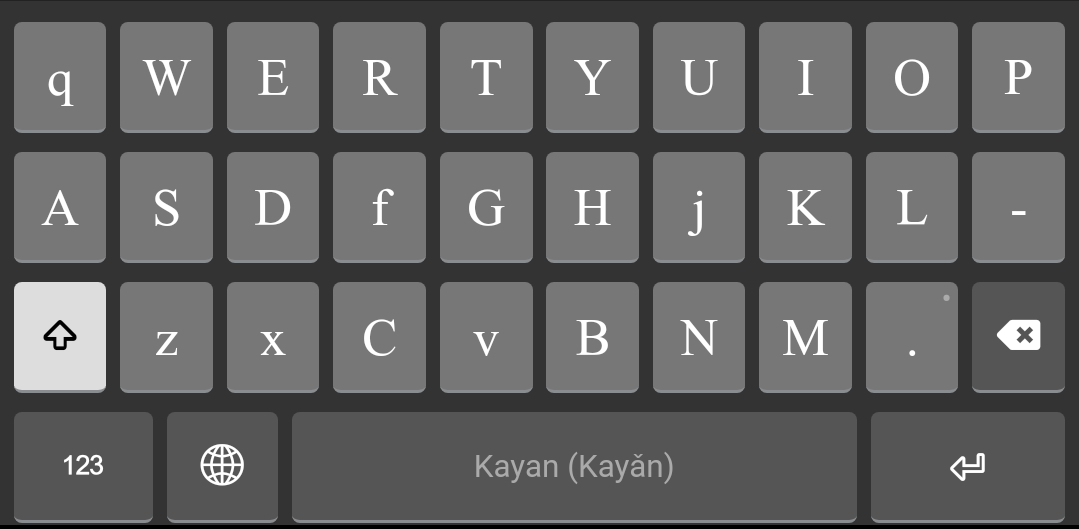
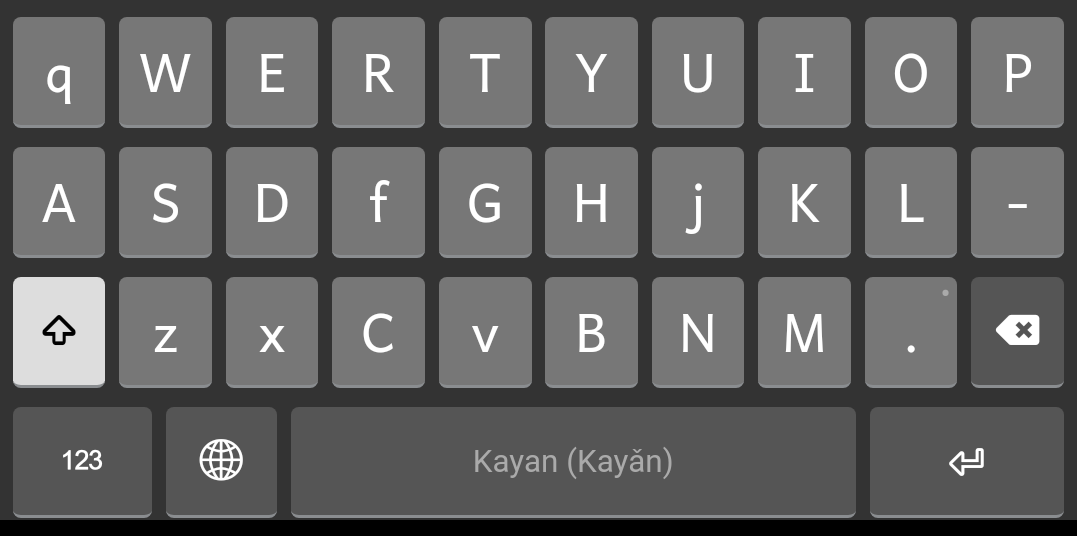
change font and minor update to touch

diff --git a/release/k/kayan/source/welcome/welcome.htm b/release/k/kayan/source/welcome/welcome.htm
@@ -25,28 +25,33 @@
         </ol>
 		  </p>
       <h1>Kayǎn Keyboard</h1>
-	  <h2>Desktop Layout</h2>
-	  <img width="70%" src="desktop_layout.png">
+  <h2>Desktop Keyboard layout</h2>
+	<h3>Default (unshifted)</h3>
+	<p><a href="desktop_layoutU_.png"><img class="keyboard" src="desktop_layoutU_.png" alt="Default (unshifted) state" /></a></p>
+	<h3>Shift</h3>
+	<p><a href="desktop_layoutU_S.png"><img class="keyboard" src="desktop_layoutU_S.png" alt="Shift state" /></a></p>
+	<h3>Right ALT</h3>
+	<p><a href="desktop_layoutU_RA.png"><img class="keyboard" src="desktop_layoutU_RA.png" alt="Right ALT state" /></a></p>
 	
 	  <h2>Mobile/Touch Layout</h2>
 	  <h3>Default</h3>
-	  <img width="50%" src="mobile_default.png">
+	  <img width="600" src="mobile_default.png" alt="Default layer">
 	  <h3>Shift</h3>
-	  <img width="50%" src="mobile_shift.png">
+	  <img width="600" src="mobile_shift.png" alt="Shift layer">
 	  <h3>Numeric</h3>
-	  <img width="50%" src="mobile_numeric.png">
+	  <img width="600" src="mobile_numeric.png" alt="Numeric layer">
 	  
 	  <h1>Fonts</h1>
 
         <p>Fonts that work well for typing Kayǎn on PC:</p>
         <ul>
-          <li>Andika</li>
+          <li>Andika (included in the package)</li>
           <li>Brill</li>
           <li>Calibri</li>
           <li>Cambria</li>
           <li>Charis SIL</li>
           <li>Consolas</li>
-          <li>Doulos SIL (included in the package)</li>
+          <li>Doulos SIL</li>
           <li>Gentium</li>
           <li>Segoe UI</li>	
         </ul>

diff --git a/release/k/kayan/source/kayan-layout.js b/release/k/kayan/source/kayan-layout.js
@@ -1,6 +1,6 @@
 {
   "phone": {
-    "font": "Charis SIL",
+    "font": "Andika",
     "layer": [
       {
         "id": "default",
@@ -543,9 +543,15 @@
             "id": 3,
             "key": [
               {
+                "id": "K_SHIFT",
+                "text": "*Shift*",
+                "sp": "1",
+                "nextlayer": "shift"
+              },
+              {
                 "id": "K_LBRKT",
                 "text": "[",
-                "pad": "110",
+                "pad": "",
                 "sk": [
                   {
                     "id": "U_00AB",
@@ -623,10 +629,10 @@
             "id": 4,
             "key": [
               {
-                "id": "K_LOWER",
-                "text": "*abc*",
+                "id": "K_NUMLOCK",
+                "text": "*123*",
                 "width": "150",
-                "sp": "1",
+                "sp": "2",
                 "nextlayer": "default"
               },
               {
@@ -651,6 +657,8 @@
           }
         ]
       }
-    ]
+    ],
+    "fontsize": "",
+    "displayUnderlying": false
   }
 }
